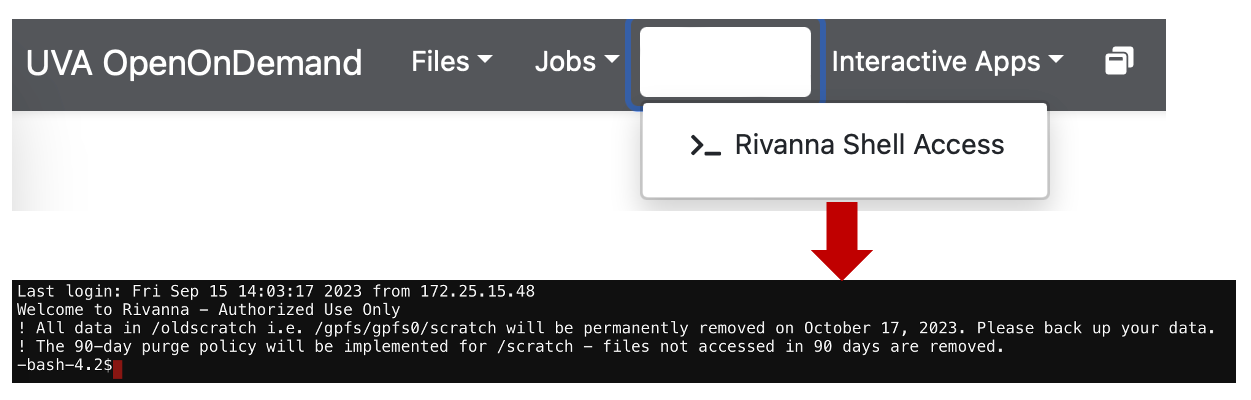
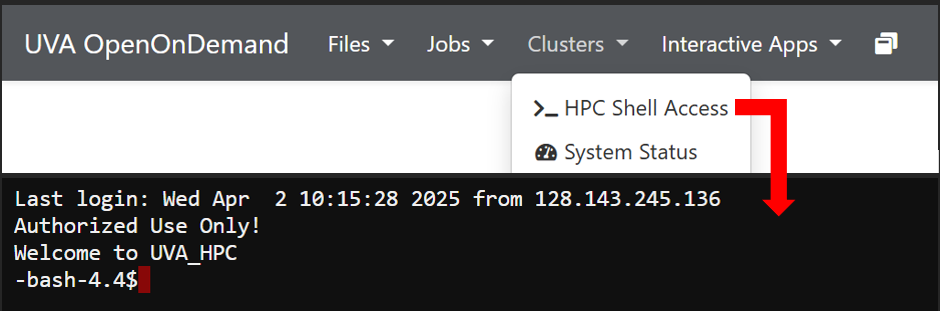
Update screenshot of Clusters dropdown

diff --git a/content/notes/hpc-intro/features_of_ood/features_shell_access.md b/content/notes/hpc-intro/features_of_ood/features_shell_access.md
@@ -17,4 +17,6 @@ The "Clusters" tab on the menu bar open a new browser tab with a Linux command l
 
 To get a feel of how to use the command line, type the command `allocations` after the `$` prompt to display information on your allocations.
 
-This is a suitable method to access the cluster through command line without connecting to the UVA VPN. 
+This is a suitable method to access the cluster through command line without connecting to the UVA VPN.
+
+On this tab is also a System Status page. This will show an overview of the usage of the entire cluster. This may not be informative since it does not show usage by partition.
